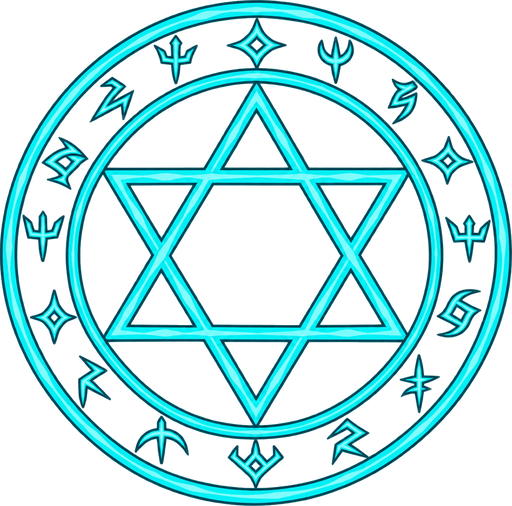
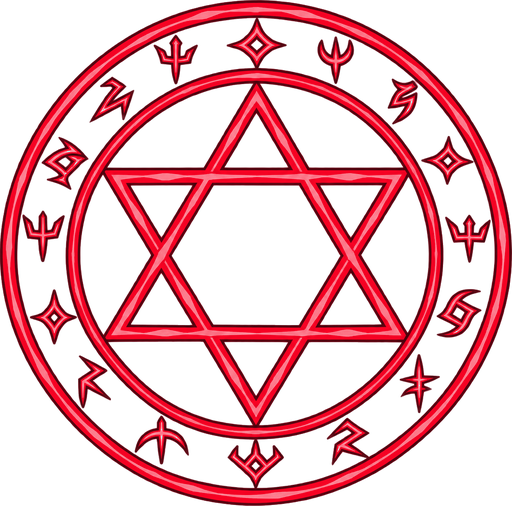
紅髮深深：符文與魔法陣改為鮮紅色
Claude-Session: https://claude.ai/code/session_01EGpjLjwrbFGp3hyfJcxghW

diff --git a/src/render/renderer.js b/src/render/renderer.js
@@ -280,8 +280,8 @@ export class Renderer {
         break;
       }
       case 'rune': case 'runebig': case 'seal': if (FXS.circle) {
-        const im = k === 'seal' ? tinted('circle', '#ff3d6e') : FXS.circle, al = z.on ? 0.95 * (1 - Math.max(0, z.p - 0.8) * 5) : z.dp * 0.5;
-        g.save(); g.translate(x, y); g.scale(1, 0.86); g.globalAlpha = Math.max(0, al) * 0.16; g.fillStyle = k === 'seal' ? '#ff3d6e' : '#2de2e6'; g.beginPath(); g.arc(0, 0, r * (z.on ? 1 : z.dp), 0, TAU); g.fill();
+        const im = FXS.circle, al = z.on ? 0.95 * (1 - Math.max(0, z.p - 0.8) * 5) : z.dp * 0.5;
+        g.save(); g.translate(x, y); g.scale(1, 0.86); g.globalAlpha = Math.max(0, al) * 0.16; g.fillStyle = '#e0142d'; g.beginPath(); g.arc(0, 0, r * (z.on ? 1 : z.dp), 0, TAU); g.fill();
         g.globalAlpha = Math.max(0, al) * (r > 300 ? 0.4 : 1); g.rotate((t * (k === 'seal' ? 0.25 : 0.6) + z.id) % TAU); g.drawImage(im, -r, -r, r * 2, r * 2); g.restore(); break;
       } magicCircle(g, x, y, r, t * (k === 'seal' ? 0.5 : 1.2) + z.id, k === 'seal' ? '#ff3d6e' : '#2de2e6', z.on ? 0.8 * (1 - Math.max(0, z.p - 0.8) * 5) : z.dp * 0.5, k !== 'rune'); break;
       case 'blackhole': {

diff --git a/src/render/fx.js b/src/render/fx.js
@@ -4,7 +4,7 @@ import { TAU } from '../core/util.js';
 import { FXS, tinted } from './fxsprites.js';
 
 const BOOM = [
-  ['#ffb347', '#ff7a2f'], ['#ffd76b', '#ff6a2f'], ['#7dffb0', '#2fd67a'], ['#ff6b6b', '#c91f3f'], ['#8ff7f2', '#2de2e6'],
+  ['#ffb347', '#ff7a2f'], ['#ffd76b', '#ff6a2f'], ['#7dffb0', '#2fd67a'], ['#ff6b6b', '#c91f3f'], ['#ff9aa6', '#e0142d'],
   ['#fff3c4', '#ffc53d'], ['#b7a6ff', '#6b5bff'], ['#e9f6ff', '#7cc7ff'], ['#ffb347', '#ff4d2f'], ['#ffe9a8', '#ff8a2f'],
   ['#b9fffb', '#2de2e6'], ['#d7a6ff', '#8a2be2'], ['#ff6bd6', '#ffd76b'],
 ];
@@ -118,7 +118,7 @@ export class Fx {
       const k = l.life / l.max;
       g.globalAlpha = k;
       if (l.st === 1 || l.st === 3) {          // 閃電 / 符文光柱
-        const col = l.st === 1 ? '#bfe6ff' : '#8ff7f2';
+        const col = l.st === 1 ? '#bfe6ff' : '#ff5a6e';
         g.strokeStyle = col; g.shadowColor = col; g.shadowBlur = 14; g.lineWidth = l.st === 3 ? 9 * k : 3.5;
         g.beginPath(); g.moveTo(l.x1, l.y1);
         if (l.st === 1) for (let i = 1; i < 8; i++) g.lineTo(l.x1 + (l.x2 - l.x1) * i / 8 + Math.sin(l.seed + i * 7.3) * 16, l.y1 + (l.y2 - l.y1) * i / 8);
